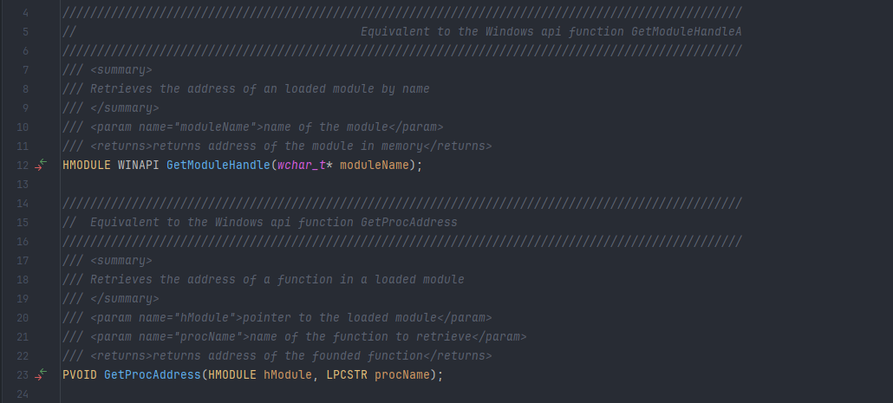
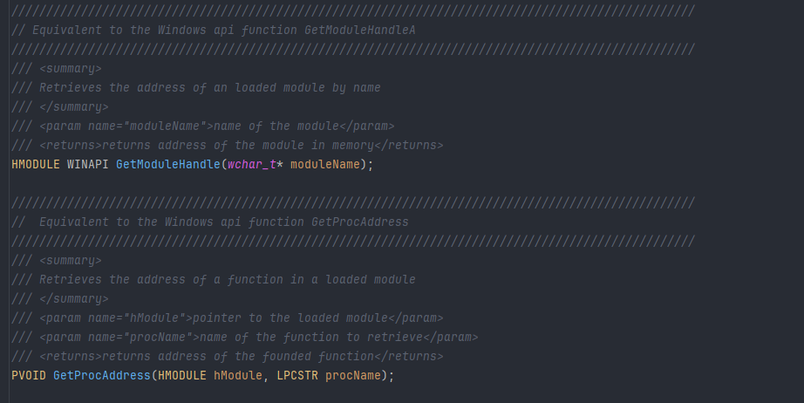
UPDATE : refactoring GetProcessInformation() & base function demo image
UPDATE : assets images

Delete .idea directory

UPDATE : refactoring CustomWinApi.hpp

diff --git a/CustomWinApi/CustomWinApi.hpp b/CustomWinApi/CustomWinApi.hpp
@@ -2,7 +2,7 @@
 #include "NTHeader.hpp"
 
 //////////////////////////////////////////////////////////////////////////////////////////////////
-//		                                   Equivalent to the Windows api function GetModuleHandleA
+// Equivalent to the Windows api function GetModuleHandleA
 //////////////////////////////////////////////////////////////////////////////////////////////////
 /// <summary>
 /// Retrieves the address of an loaded module by name
@@ -23,7 +23,7 @@ HMODULE WINAPI GetModuleHandle(wchar_t* moduleName);
 PVOID GetProcAddress(HMODULE hModule, LPCSTR procName);
 
 //////////////////////////////////////////////////////////////////////////////////////////////////
-//		                                                         Retrieving address of current PEB
+//	Retrieving address of current PEB
 //////////////////////////////////////////////////////////////////////////////////////////////////
 /// <summary>
 /// Retrieves the address of the current PEB (process environment block)
@@ -32,7 +32,7 @@ PVOID GetProcAddress(HMODULE hModule, LPCSTR procName);
 PVOID GetPebAddress();
 
 //////////////////////////////////////////////////////////////////////////////////////////////////
-//		                                                         Retrieving address of current TIB
+//	Retrieving address of current TIB
 //////////////////////////////////////////////////////////////////////////////////////////////////
 /// <summary>
 /// Retrieves the address of the current TIB

diff --git a/CustomWinApi/CustomWinApi.cpp b/CustomWinApi/CustomWinApi.cpp
@@ -164,10 +164,11 @@ BOOL GetProcessInformation(){
     if(ptrProcessInfo == nullptr)
     {
         std::cout << "[-] nullptr for process informations" <<std::endl;
+        free(buffer);
         return false;
     }
 
-    std::cout << "\nListing Processes running using NtQuerySystemInformations:" << std::endl;
+    std::cout << "\nListing Processes running using NtQuerySystemInformation :" << std::endl;
     std::cout << "---------------------------------------------" << std::endl;
     while(ptrProcessInfo->NextEntryOffset)
     {
